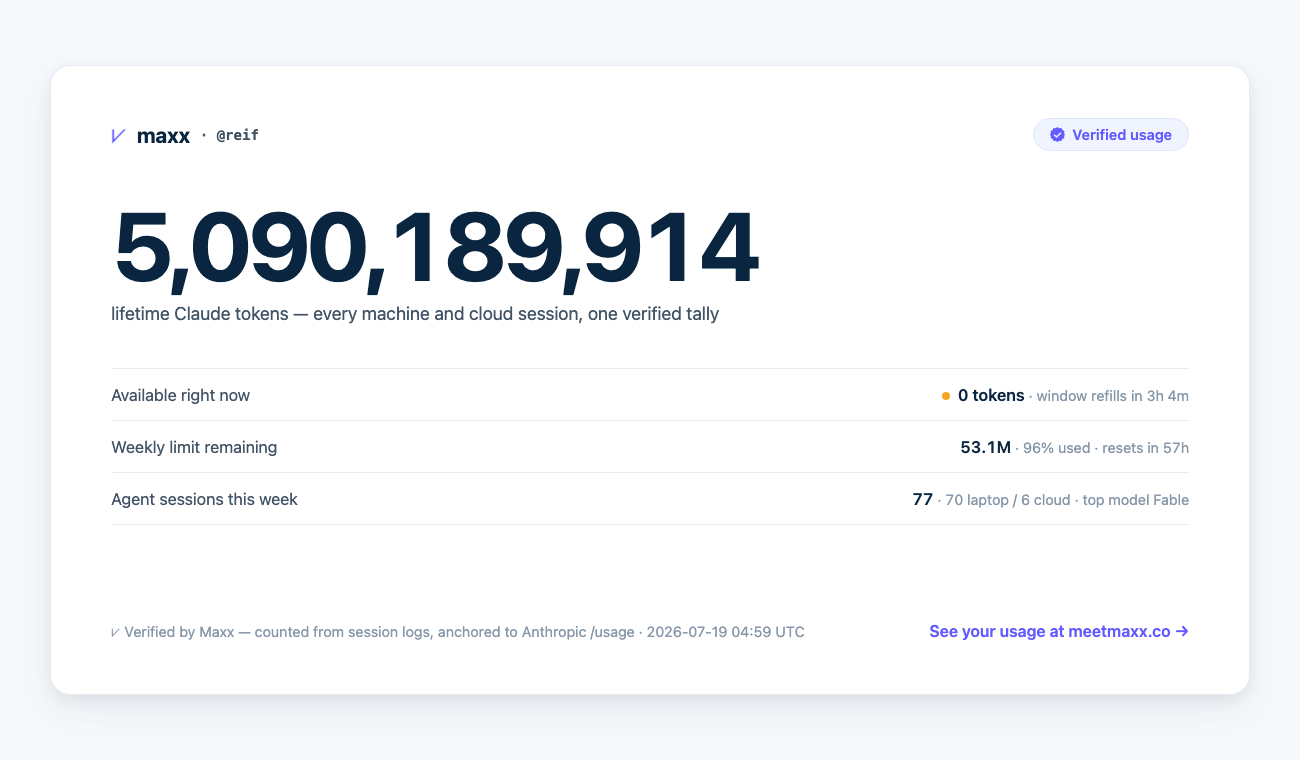
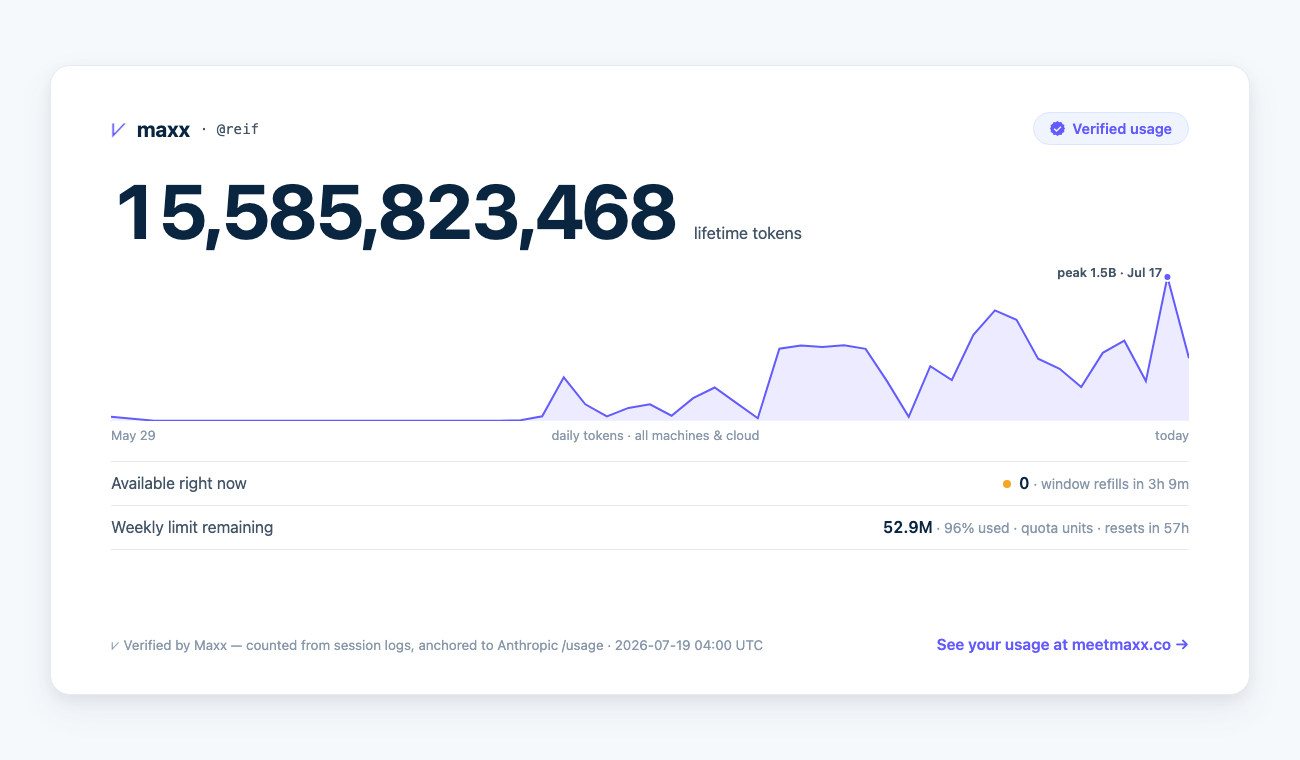
feat(card): all-time daily usage graph + raw lifetime odometer; emit.log pace-context line
Card hero is now RAW lifetime tokens (15.6B, full local-log scan since May 29)
with a daily area chart — raw is the number a human recognizes; weighted quota
units stay on the weekly row, labeled. emit.log appends a pace line after each
send (share left/over, window position, week % + left, windows to reset) so a
big batch number carries its own 'so what'.

Claude-Session: https://claude.ai/code/session_01TVBkuwX5SngbngWoCT7dfi

diff --git a/site/u/reif/index.html b/site/u/reif/index.html
@@ -1,86 +1,55 @@
 <!doctype html>
-<html lang="en">
-<head>
-<meta charset="utf-8">
-<meta name="viewport" content="width=device-width,initial-scale=1">
+<html lang="en"><head><meta charset="utf-8"><meta name="viewport" content="width=device-width,initial-scale=1">
 <title>reif — Verified token usage · Maxx</title>
 <meta property="og:title" content="reif — verified Claude token usage">
-<meta property="og:description" content="5.09B lifetime tokens · verified by Maxx, anchored to Anthropic /usage · see your usage at meetmaxx.co">
+<meta property="og:description" content="15.6B lifetime Claude tokens · verified by Maxx · see your usage at meetmaxx.co">
 <link rel="icon" href="/favicon.svg" type="image/svg+xml">
 <style>
-  :root{
-    --bg:#f6f9fc; --card:#ffffff; --line:#e6ebf1;
-    --ink:#0a2540; --ink-2:#425466; --ink-3:#8898aa;
-    --accent:#635bff; --ok:#0e9f6e;
-    --sans:-apple-system,BlinkMacSystemFont,"Segoe UI",Inter,Roboto,sans-serif;
-    --mono:ui-monospace,"SF Mono",Menlo,monospace;
-  }
-  *{box-sizing:border-box;margin:0}
-  body{background:var(--bg);color:var(--ink);font-family:var(--sans);
-       min-height:100vh;display:flex;align-items:center;justify-content:center;padding:24px}
-  .card{width:1200px;max-width:100%;aspect-ratio:1200/630;background:var(--card);
-        border:1px solid var(--line);border-radius:20px;
-        box-shadow:0 15px 35px rgba(60,66,87,.08),0 5px 15px rgba(0,0,0,.06);
-        padding:52px 60px;display:flex;flex-direction:column}
-  .top{display:flex;align-items:center;justify-content:space-between}
-  .brand{display:flex;align-items:center;gap:10px;font-weight:700;font-size:21px;color:var(--ink)}
-  .brand .m{color:var(--accent);font-size:24px}
-  .badge{display:inline-flex;align-items:center;gap:7px;background:#f0f4ff;color:var(--accent);
-         border:1px solid #dfe5ff;border-radius:999px;padding:7px 16px;font-size:14.5px;font-weight:600}
-  .badge svg{width:15px;height:15px}
-  .hero{margin-top:46px}
-  .hero .n{font-size:96px;font-weight:700;letter-spacing:-.035em;line-height:1;
-           font-variant-numeric:tabular-nums}
-  .hero .l{color:var(--ink-2);font-size:18px;margin-top:10px}
-  .rows{margin-top:44px;border-top:1px solid var(--line)}
-  .r{display:flex;justify-content:space-between;align-items:baseline;
-     padding:16px 0;border-bottom:1px solid var(--line);font-size:16.5px}
-  .r .k{color:var(--ink-2)}
-  .r .v{font-weight:600;font-variant-numeric:tabular-nums}
-  .r .sub{color:var(--ink-3);font-weight:400;font-size:14.5px}
-  .pill{display:inline-block;width:8px;height:8px;border-radius:50%;background:var(--ok);
-        margin-right:8px;vertical-align:1px}
-  .pill.warn{background:#f5a623}
-  .foot{margin-top:auto;display:flex;justify-content:space-between;align-items:baseline;
-        color:var(--ink-3);font-size:14.5px}
-  .foot a{color:var(--accent);font-weight:600;text-decoration:none;font-size:16px}
-  .who{font-family:var(--mono);font-size:14px;color:var(--ink-2)}
-</style>
-</head>
-<body>
+:root{--bg:#f6f9fc;--card:#fff;--line:#e6ebf1;--ink:#0a2540;--ink-2:#425466;--ink-3:#8898aa;--accent:#635bff;--sans:-apple-system,BlinkMacSystemFont,"Segoe UI",Inter,Roboto,sans-serif;--mono:ui-monospace,"SF Mono",Menlo,monospace}
+*{box-sizing:border-box;margin:0}
+body{background:var(--bg);color:var(--ink);font-family:var(--sans);min-height:100vh;display:flex;align-items:center;justify-content:center;padding:24px}
+.card{width:1200px;max-width:100%;aspect-ratio:1200/630;background:var(--card);border:1px solid var(--line);border-radius:20px;box-shadow:0 15px 35px rgba(60,66,87,.08),0 5px 15px rgba(0,0,0,.06);padding:46px 60px 40px;display:flex;flex-direction:column}
+.top{display:flex;align-items:center;justify-content:space-between}
+.brand{display:flex;align-items:center;gap:10px;font-weight:700;font-size:21px}
+.brand .m{color:var(--accent);font-size:24px}
+.who{font-family:var(--mono);font-size:14px;color:var(--ink-2);font-weight:400}
+.badge{display:inline-flex;align-items:center;gap:7px;background:#f0f4ff;color:var(--accent);border:1px solid #dfe5ff;border-radius:999px;padding:7px 16px;font-size:14.5px;font-weight:600}
+.badge svg{width:15px;height:15px}
+.hero{margin-top:28px;display:flex;align-items:baseline;gap:18px}
+.hero .n{font-size:76px;font-weight:700;letter-spacing:-.03em;line-height:1;font-variant-numeric:tabular-nums}
+.hero .l{color:var(--ink-2);font-size:16.5px}
+.chart{margin-top:22px;position:relative}
+.chart .cap{display:flex;justify-content:space-between;color:var(--ink-3);font-size:13px;margin-top:6px}
+.peak{position:absolute;font-size:12.5px;color:var(--ink-2);font-weight:600;white-space:nowrap}
+.rows{margin-top:18px;border-top:1px solid var(--line)}
+.r{display:flex;justify-content:space-between;align-items:baseline;padding:12.5px 0;border-bottom:1px solid var(--line);font-size:16px}
+.r .k{color:var(--ink-2)}.r .v{font-weight:600;font-variant-numeric:tabular-nums}
+.r .sub{color:var(--ink-3);font-weight:400;font-size:14px}
+.pill{display:inline-block;width:8px;height:8px;border-radius:50%;background:#f5a623;margin-right:8px;vertical-align:1px}
+.foot{margin-top:auto;display:flex;justify-content:space-between;align-items:baseline;color:var(--ink-3);font-size:13.5px}
+.foot a{color:var(--accent);font-weight:600;text-decoration:none;font-size:15.5px}
+</style></head><body>
 <div class="card">
-  <div class="top">
-    <div class="brand"><span class="m">⩗</span> maxx <span class="who">· @reif</span></div>
-    <div class="badge">
-      <svg viewBox="0 0 16 16" fill="currentColor"><path d="M8 0l1.9 1.4 2.3-.3 1 2.1 2.1 1-.3 2.3L16 8l-1 1.5.3 2.3-2.1 1-1 2.1-2.3-.3L8 16l-1.9-1.4-2.3.3-1-2.1-2.1-1 .3-2.3L0 8l1-1.5-.3-2.3 2.1-1 1-2.1 2.3.3L8 0zm3.1 5.5L7 9.6 5 7.6 3.9 8.7 7 11.8l5.2-5.2-1.1-1.1z"/></svg>
-      Verified usage
-    </div>
-  </div>
-
-  <div class="hero">
-    <div class="n">5,090,189,914</div>
-    <div class="l">lifetime Claude tokens — every machine and cloud session, one verified tally</div>
-  </div>
-
-  <div class="rows">
-    <div class="r">
-      <span class="k">Available right now</span>
-      <span class="v"><span class="pill warn"></span>0 tokens <span class="sub">· window refills in 3h 4m</span></span>
-    </div>
-    <div class="r">
-      <span class="k">Weekly limit remaining</span>
-      <span class="v">53.1M <span class="sub">· 96% used · resets in 57h</span></span>
-    </div>
-    <div class="r">
-      <span class="k">Agent sessions this week</span>
-      <span class="v">77 <span class="sub">· 70 laptop / 6 cloud · top model Fable</span></span>
-    </div>
-  </div>
-
-  <div class="foot">
-    <span>⩗ Verified by Maxx — counted from session logs, anchored to Anthropic /usage · 2026-07-19 04:59 UTC</span>
-    <a href="https://meetmaxx.co">See your usage at meetmaxx.co →</a>
-  </div>
-</div>
-</body>
-</html>
+ <div class="top">
+  <div class="brand"><span class="m">⩗</span> maxx <span class="who">· @reif</span></div>
+  <div class="badge"><svg viewBox="0 0 16 16" fill="currentColor"><path d="M8 0l1.9 1.4 2.3-.3 1 2.1 2.1 1-.3 2.3L16 8l-1 1.5.3 2.3-2.1 1-1 2.1-2.3-.3L8 16l-1.9-1.4-2.3.3-1-2.1-2.1-1 .3-2.3L0 8l1-1.5-.3-2.3 2.1-1 1-2.1 2.3.3L8 0zm3.1 5.5L7 9.6 5 7.6 3.9 8.7 7 11.8l5.2-5.2-1.1-1.1z"/></svg>Verified usage</div>
+ </div>
+ <div class="hero"><div class="n">15,585,823,468</div><div class="l">lifetime tokens</div></div>
+ <div class="chart">
+  <svg width="100%" viewBox="0 0 1080 150" preserveAspectRatio="none" style="display:block">
+   <path d="M0.0,146.0L21.6,148.0L43.2,150.0L64.8,150.0L86.4,150.0L108.0,150.0L129.6,150.0L151.2,150.0L172.8,150.0L194.4,150.0L216.0,150.0L237.6,150.0L259.2,150.0L280.8,150.0L302.4,150.0L324.0,150.0L345.6,150.0L367.2,150.0L388.8,150.0L410.4,149.5L432.0,145.6L453.6,106.5L475.2,133.5L496.8,145.6L518.4,137.2L540.0,133.5L561.6,145.0L583.2,127.4L604.8,116.7L626.4,132.1L648.0,147.5L669.6,77.9L691.2,74.6L712.8,76.1L734.4,74.5L756.0,78.0L777.6,110.6L799.2,146.1L820.8,95.4L842.4,109.2L864.0,64.0L885.6,39.5L907.2,48.8L928.8,87.9L950.4,98.0L972.0,116.3L993.6,82.0L1015.2,69.8L1036.8,110.3L1058.4,6.0L1080.0,87.4L1080,150L0,150Z" fill="#635bff" opacity=".12"/>
+   <path d="M0.0,146.0L21.6,148.0L43.2,150.0L64.8,150.0L86.4,150.0L108.0,150.0L129.6,150.0L151.2,150.0L172.8,150.0L194.4,150.0L216.0,150.0L237.6,150.0L259.2,150.0L280.8,150.0L302.4,150.0L324.0,150.0L345.6,150.0L367.2,150.0L388.8,150.0L410.4,149.5L432.0,145.6L453.6,106.5L475.2,133.5L496.8,145.6L518.4,137.2L540.0,133.5L561.6,145.0L583.2,127.4L604.8,116.7L626.4,132.1L648.0,147.5L669.6,77.9L691.2,74.6L712.8,76.1L734.4,74.5L756.0,78.0L777.6,110.6L799.2,146.1L820.8,95.4L842.4,109.2L864.0,64.0L885.6,39.5L907.2,48.8L928.8,87.9L950.4,98.0L972.0,116.3L993.6,82.0L1015.2,69.8L1036.8,110.3L1058.4,6.0L1080.0,87.4" fill="none" stroke="#635bff" stroke-width="2"/>
+   <circle cx="1058.4" cy="6.0" r="4" fill="#635bff" stroke="#fff" stroke-width="2"/>
+  </svg>
+  <div class="peak" style="left:98.0%;top:-6px;transform:translateX(-105%)">peak 1.5B · Jul 17</div>
+  <div class="cap"><span>May 29</span><span>daily tokens · all machines &amp; cloud</span><span>today</span></div>
+ </div>
+ <div class="rows">
+  <div class="r"><span class="k">Available right now</span><span class="v"><span class="pill"></span>0 <span class="sub">· window refills in 3h 9m</span></span></div>
+  <div class="r"><span class="k">Weekly limit remaining</span><span class="v">52.9M <span class="sub">· 96% used · quota units · resets in 57h</span></span></div>
+ </div>
+ <div class="foot">
+  <span>⩗ Verified by Maxx — counted from session logs, anchored to Anthropic /usage · 2026-07-19 04:00 UTC</span>
+  <a href="https://meetmaxx.co">See your usage at meetmaxx.co →</a>
+ </div>
+</div></body></html>